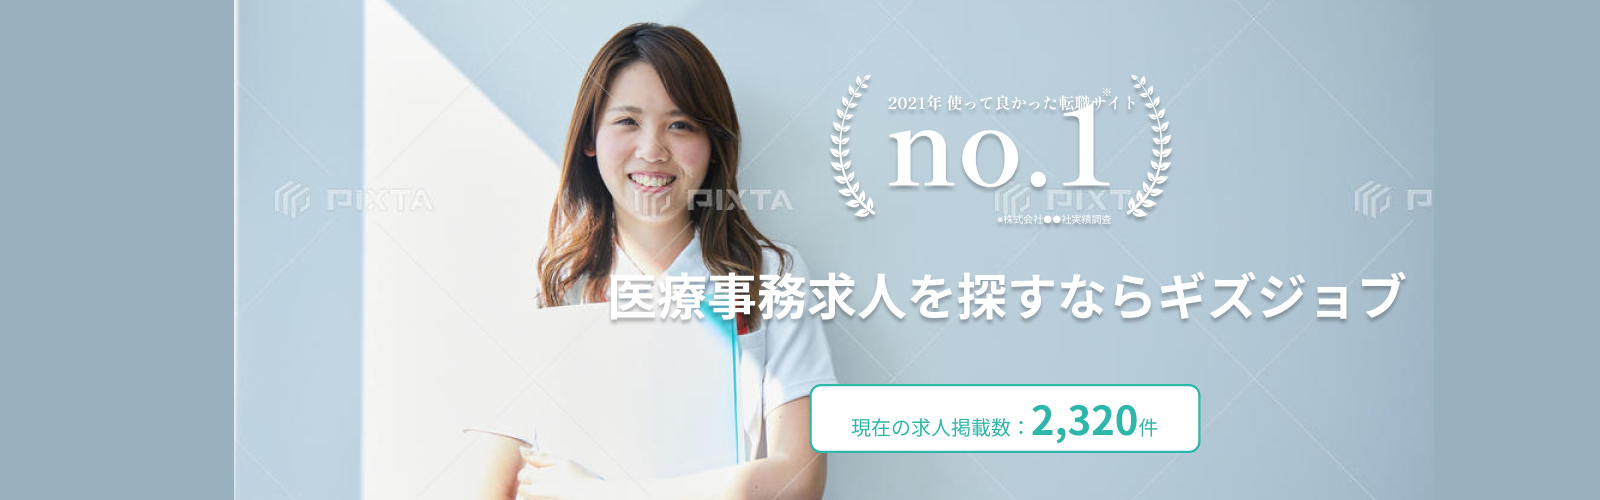
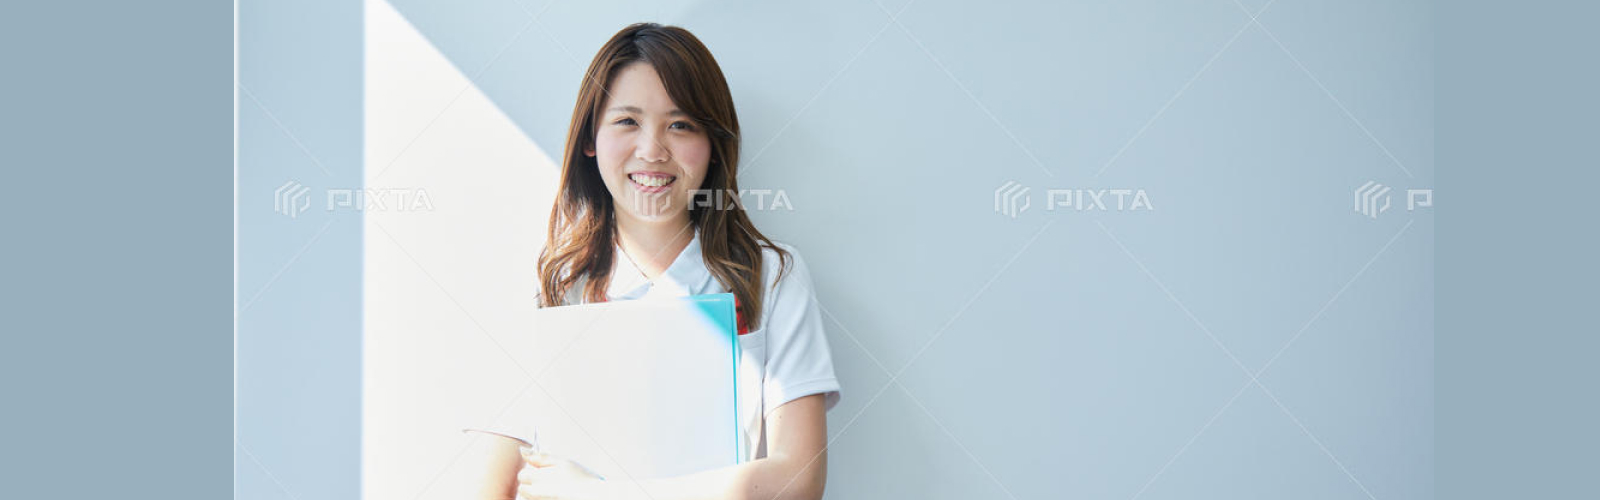
keyvisualをコーディング

Changed region(s): [[0.375, 0.54, 0.875, 0.66], [0.5, 0.15, 0.75, 0.45], [0.5, 0.75, 0.75, 0.93]]

diff --git a/src/css/object/project/keyvisual.scss b/src/css/object/project/keyvisual.scss
@@ -1,2 +1,46 @@
 @use '../../object/utility/utility.scss';
 // ページ上部のキービジュアルに関するスタイル
+
+.p-keyvisual {
+  background-image: url(../img/picture/keyvisual.jpg);
+  background-repeat: no-repeat;
+  background-position: center center;
+  background-size: cover;
+  height: 500px;
+  position: relative;
+
+  &__img {
+    position: absolute;
+    top: 56px;
+    left: 710px;
+    width: 341px;
+    height: 141px;
+  }
+
+  &__title {
+    position: absolute;
+    top: 265px;
+    left: 432px;
+    width: 800px;
+    height: 65px;
+  }
+
+  &__text {
+    display: inline-block;
+    font-size: 20px;
+    color: #2EB6AA;
+    background-color: #fff;
+    padding: 10px 40px 18px;
+    border-radius: 10px;
+    border: solid 2px #2EB6AA;
+    position: absolute;
+    bottom: 10.83%;
+    right: 24.97%;
+
+    span {
+      font-size: 40px;
+      font-weight: 700;
+    }
+  }
+
+}

diff --git a/src/index.html b/src/index.html
@@ -24,5 +24,14 @@
     </div>
   </header>
 
+  <div class="p-keyvisual">
+    <div class="p-keyvisual__inner">
+      <figure class="p-keyvisual__img">
+        <img src="img/icon/logo.png" alt="">
+      </figure>
+      <h1 class="p-keyvisual__title"><img src="img/picture/title.png" alt=""></h1>
+      <p class="p-keyvisual__text">現在の求人掲載数：<span>2,320</span>件</p>
+    </div>
+  </div>
 </body>
 </html>

diff --git a/src/css/layout/header.scss b/src/css/layout/header.scss
@@ -3,9 +3,12 @@
 
 .l-header {
   background-color: #fff;
-  position: fixed;
+  position: sticky;
+  top: 0;
+  left: 0;
   width: 100%;
   padding: 25px 0;
+  z-index: 999;
 
   &__inner {
     display: flex;
